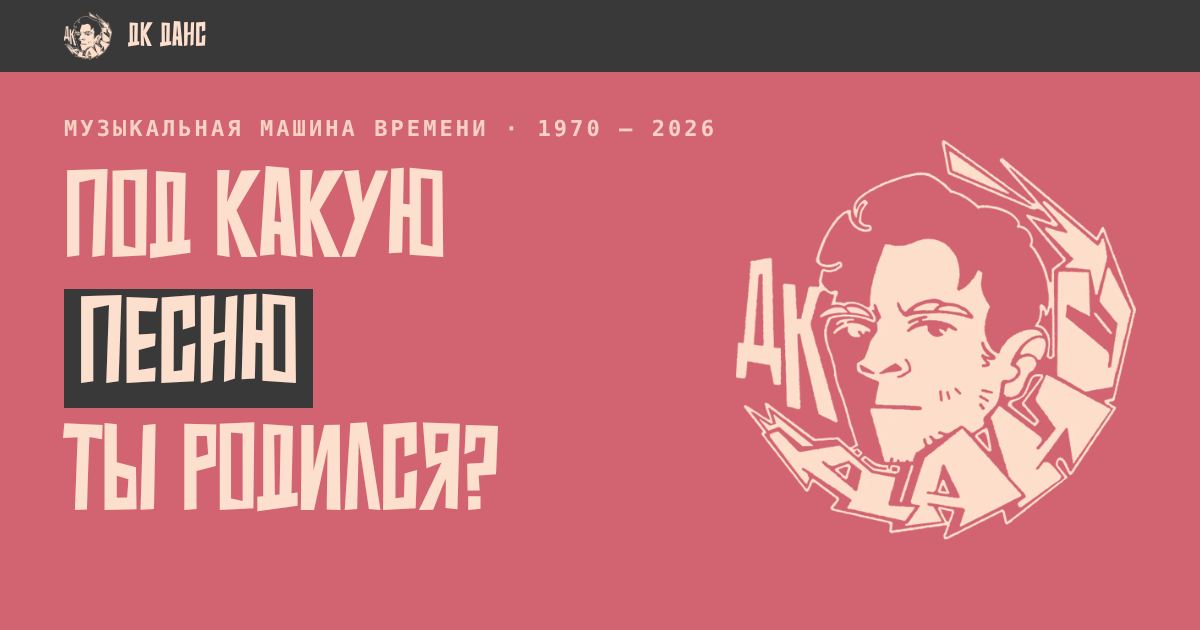
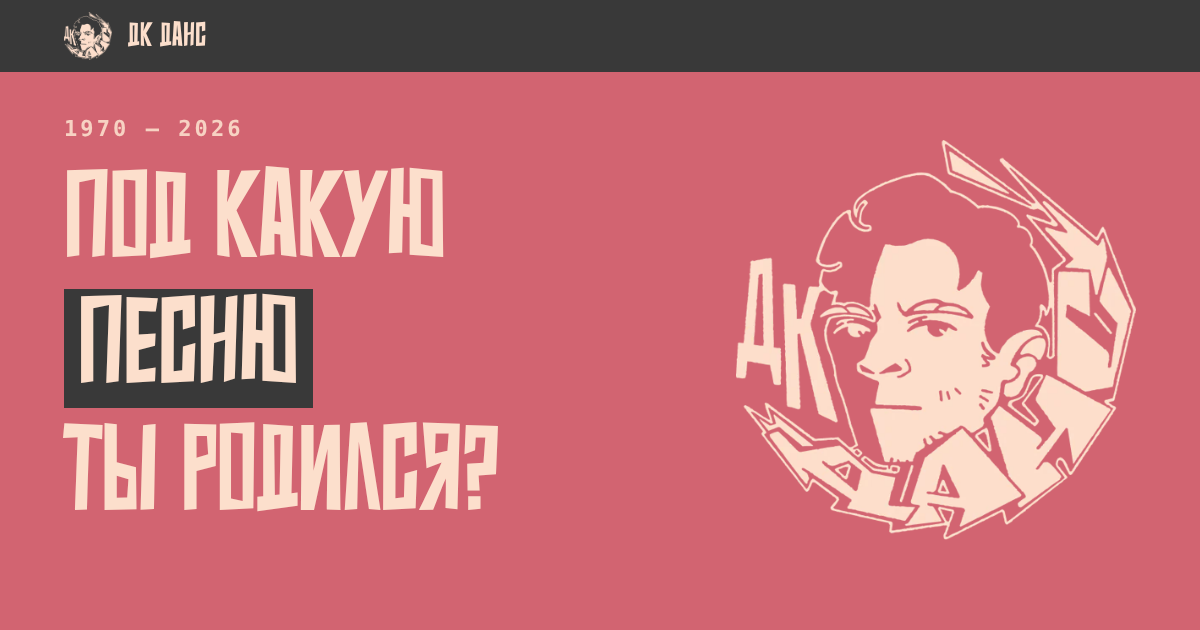
Site texts: editor's rewrite (hero, result card, life soundtrack, footer, link preview); remove corner stamp and multichart note
Claude-Session: https://claude.ai/code/session_0131Scg2gfX6z1jsNtzh2Lcg

Changed region(s): [[0.0308, 0.181, 0.4317, 0.2111], [0.4625, 0.181, 0.6167, 0.2111]]

diff --git a/app/birthday-app.tsx b/app/birthday-app.tsx
@@ -43,24 +43,6 @@ function detailLabel(hit: BirthdayHit) {
   return hit.precision;
 }
 
-function archiveStamp(hit: BirthdayHit) {
-  switch (hit.mode) {
-    case "стриминговый чарт": return `СЛУШАТЕЛЬСКИЕ ЧАРТЫ ${hit.year}`;
-    case "мультичарт": return "МУЛЬТИЧАРТ 2004—2025";
-    case "недельный чарт": return "НЕДЕЛЬНЫЙ ХИТ-ПАРАД";
-    case "исторический чарт": return "АРХИВ ЗД / МК";
-    case "архив года": return "АРХИВ ГОДА";
-    case "архивный эфир": return "ТВ-АРХИВ";
-    case "датированный релиз": return "КУЛЬТУРНЫЙ РЕЛИЗ";
-    case "месячный релиз": return "МЕСЯЧНАЯ ПУБЛИКАЦИЯ";
-    case "месячный чарт": return "МЕСЯЧНЫЙ ХИТ-ПАРАД";
-    case "телепремьера": return "ТЕЛЕПРЕМЬЕРА";
-    case "датированный фестиваль": return "ДАТИРОВАННЫЙ ФЕСТИВАЛЬ";
-    case "датированный концерт": return "КОНЦЕРТНЫЙ АРХИВ";
-    default: return "РАДИОАРХИВ";
-  }
-}
-
 export default function BirthdayApp({ initialHit, initialDate, initialToday, weekCount, monthlyCount, initialLife, maxDate }: { initialHit: BirthdayHit | null; initialDate: string; initialToday: string; weekCount: number; monthlyCount: number; initialLife: LifeEntry[]; maxDate?: string }) {
   const [date, setDate] = useState(initialDate);
   const [submittedDate, setSubmittedDate] = useState(initialDate);
@@ -121,7 +103,7 @@ export default function BirthdayApp({ initialHit, initialDate, initialToday, wee
       try { window.history.replaceState({}, "", `?date=${selectedDate}`); } catch { /* sandboxed preview */ }
       requestAnimationFrame(() => document.getElementById("result")?.scrollIntoView({ behavior: window.matchMedia("(prefers-reduced-motion: reduce)").matches ? "instant" : "smooth", block: "start" }));
     } catch {
-      if (activeRequest.current === controller) setError("Не удалось загрузить песню. Проверь соединение и попробуй ещё раз — предыдущий результат сохранён.");
+      if (activeRequest.current === controller) setError("Не удалось загрузить песню. Проверь интернет и попробуй ещё раз, предыдущий результат сохранён.");
     } finally {
       window.clearTimeout(timeout);
       if (activeRequest.current === controller) { setLoading(false); activeRequest.current = null; }
@@ -195,10 +177,10 @@ export default function BirthdayApp({ initialHit, initialDate, initialToday, wee
       </header>
 
       <section className="hero" id="top">
-        <p className="eyebrow">Музыкальная машина времени · <span className="nowrap">1970 — {today.slice(0, 4)}</span></p>
+        <p className="eyebrow">Саундтрек твоего дня рождения · <span className="nowrap">1970 — {today.slice(0, 4)}</span></p>
         <img className="hero-logo" src="brand/logo-cream.webp" alt="" aria-hidden="true" />
         <h1>Под какую <mark>песню</mark> ты&nbsp;родился?</h1>
-        <p className="lede">Выбери дату — найдём песню из хит-парадов и музыкальных архивов того времени и покажем, насколько точно удалось попасть в твой день.</p>
+        <p className="lede">Выбери дату и мы найдём песню, которая была на пике популярности и чартов в твой день рождения.</p>
 
         <form className="date-form" onSubmit={handleSubmit}>
           <label htmlFor="birthdate">Дата рождения</label>
@@ -222,7 +204,7 @@ export default function BirthdayApp({ initialHit, initialDate, initialToday, wee
       <section className="result-wrap" id="result" aria-live="polite" aria-busy={loading}>
         {hit ? (
           <article className="result-card is-entering" key={submittedDate}>
-            <div className="result-meta"><p>Твой саундтрек дня рождения</p><span>{formatDate(submittedDate)}</span></div>
+            <div className="result-meta"><p>Саундтрек твоего дня рождения</p><span>{formatDate(submittedDate)}</span></div>
             <div className="carrier-stage">
               <RecordObject title={hit.title} artist={hit.artist} year={hit.year} date={formatDate(submittedDate)} />
             </div>
@@ -241,7 +223,7 @@ export default function BirthdayApp({ initialHit, initialDate, initialToday, wee
                 </div>
                 <div className="actions-row">
                   <button className="btn-quiet" type="button" onClick={copyResult}>{copied ? "Ссылка скопирована ✓" : "Поделиться"}</button>
-                  <button className="btn-quiet btn-story" type="button" onClick={makeCard} disabled={cardBusy}>{cardBusy ? "Рисуем…" : "Карточка для сторис"}</button>
+                  <button className="btn-quiet btn-story" type="button" onClick={makeCard} disabled={cardBusy}>{cardBusy ? "Делаем карточку…" : "Карточка для сторис"}</button>
                 </div>
               </div>
               {copyFallback && <div className="copy-fallback"><p>Не удалось скопировать автоматически. Выдели текст:</p><textarea aria-label="Результат для копирования" rows={4} readOnly value={copyFallback} onFocus={(event) => event.target.select()} /></div>}
@@ -290,8 +272,8 @@ export default function BirthdayApp({ initialHit, initialDate, initialToday, wee
                     <div className="chart-note"><span>{hit.chartRank ? `#${hit.chartRank}` : "✓"}</span><p>{hit.chartMetric}<br /><b>{hit.period}</b></p></div>
                     <div className={`precision precision-${hit.precision.toLowerCase()}`}><span>{detailLabel(hit)}</span><p>{hit.proximity}</p></div>
                   </div>
-                  {popularity && <div className={`confidence confidence-${popularity.level}`}><p className="confidence-caption">ЧТО ИЗВЕСТНО О ПОПУЛЯРНОСТИ</p><strong>{popularity.level === "review" && !era ? "Подтверждено архивом" : popularity.label}</strong><p>{popularity.detail}</p></div>}
-                  <p>{hit.method}{/[.!?]$/.test(hit.method) ? "" : "."}{hit.mode === "мультичарт" ? " Радиостанции учитываются вместе как одна среда; недельный и годовой Shazam также не дублируют друг друга." : ""}</p>
+                  {popularity && <div className={`confidence confidence-${popularity.level}`}><p className="confidence-caption">ЧТО ИЗВЕСТНО О ПОПУЛЯРНОСТИ</p><strong>{popularity.level === "review" && !era ? "Подтверждено архивом" : popularity.label}</strong>{popularity.detail && <p>{popularity.detail}</p>}</div>}
+                  <p>{hit.method}{/[.!?]$/.test(hit.method) ? "" : "."}</p>
                   <p className="sources-caption">Источники ({hit.sources.length + 1})</p>
                   <div className="source-list">
                     {hit.sources.map((source) => (
@@ -306,7 +288,6 @@ export default function BirthdayApp({ initialHit, initialDate, initialToday, wee
                 </div>
               </details>
             </div>
-            <p className="demo-stamp">{archiveStamp(hit)}</p>
           </article>
         ) : (
           <article className="empty-card">
@@ -323,13 +304,13 @@ export default function BirthdayApp({ initialHit, initialDate, initialToday, wee
         <dl className="how-levels">
           <div><dt><span className="lvl lvl-week">Неделя</span></dt><dd>Песня стояла в хит-параде, вышедшем в пределах недели от твоей даты.</dd></div>
           <div><dt><span className="lvl lvl-month">Месяц</span></dt><dd>Источник того же месяца: чарт месяца, журнал, эфир или концерт.</dd></div>
-          <div><dt><span className="lvl lvl-year">Год</span></dt><dd>Точнее найти не удалось — песня из проверенного архива года.</dd></div>
+          <div><dt><span className="lvl lvl-year">Год</span></dt><dd>Точнее найти не удалось, просто песня из проверенного архива года.</dd></div>
         </dl>
-        <p className="how-note">Под каждой песней есть источники: можно открыть выпуск чарта или журнала и проверить самому. Радио, продажи, прослушивания и голосования читателей говорят о разном, и мы это не смешиваем.</p>
+        <p className="how-note">Под каждой песней есть источники: можно открыть выпуск чарта или журнала и проверить самому.</p>
         <p className="how-facts"><b>{weekCount.toLocaleString("ru-RU")}</b> недель чартов · <b>{monthlyCount}</b> месячных хит-парадов 1985–1991 · архив с 1970 года</p>
       </section>
 
-      <footer><p>Идея и редакция — ДК ДАНС</p><a href="#top">Ввести другую дату ↑</a></footer>
+      <footer><p>Сервис придумал ДК ДАНС</p><a href="#top">Ввести другую дату ↑</a></footer>
     </main>
   );
 }

diff --git a/app/evidence-policy.ts b/app/evidence-policy.ts
@@ -42,7 +42,7 @@ const NO_CHART_ERAS: readonly { from: string; to: string; label: string; detail:
   {
     from: "1982-03-01", to: "1985-08-31",
     label: "Хит-парадов в эти годы не публиковали",
-    detail: "С марта 1982 по август 1985 года общесоюзного песенного хит-парада не выходило: рубрику «Звуковая дорожка» «МК» закрыли после февраля 1982 года, а после опроса 1984 года разгромили. Чарт вернулся только с сентября 1985 года. Поэтому массовость песни измерить нечем. Песня подтверждена датированным источником своего месяца: журналом, эфиром, концертом или релизом.",
+    detail: "",
   },
 ];
 
@@ -56,7 +56,7 @@ export function assessPopularity(sources: readonly PilotSource[]) {
   const hasDatedChart = sources.some((source) => source.kind === "Shazam" || source.kind === "цифровые продажи" || source.kind === "радио" || source.kind === "датированный стриминговый чарт");
   if (count >= 2) return { label: "Датированный чарт и несколько площадок", detail: `${hasDatedChart ? "Позиция привязана к выпуску чарта; " : ""}популярность независимо подтверждают разные слушательские площадки. Годовые итоги не считаются доказательством пика в выбранный день.`, level: "supported" };
   if (count === 1) return { label: hasDatedChart ? "Датированный чарт и одна площадка" : "Есть слушательское подтверждение", detail: `${hasDatedChart ? "Позиция привязана к выпуску чарта; " : ""}масштаб популярности подтверждает одна слушательская площадка или опрос. Дополнительный независимый источник повысит уверенность.`, level: "partial" };
-  if (sources.some((source) => sourcePlatform(source) === "culture")) return { label: "Есть культурный резонанс", detail: "Сохранилось описание общественного отклика. Данные о массовом прослушивании ещё уточняются.", level: "partial" };
+  if (sources.some((source) => sourcePlatform(source) === "culture")) return { label: "Есть культурный резонанс", detail: "Сохранилось описание общественного отклика.", level: "partial" };
   return { label: "Популярность требует перепроверки", detail: "Источник подтверждает чарт, эфир, релиз или награду. Этого недостаточно, чтобы уверенно назвать песню массовым хитом.", level: "review" };
 }
 

diff --git a/static/index.html b/static/index.html
@@ -4,26 +4,26 @@
     <meta charset="utf-8" />
     <meta name="viewport" content="width=device-width, initial-scale=1" />
     <title>Саундтрек твоего рождения</title>
-    <meta name="description" content="Найди песню для своей даты рождения — с источниками, точностью времени и объяснением выбора." />
+    <meta name="description" content="Узнай, какая песня была популярна в твой день рождения." />
     <meta property="og:type" content="website" />
     <meta property="og:site_name" content="ДК ДАНС" />
     <meta property="og:locale" content="ru_RU" />
     <meta property="og:url" content="https://dkdanceblog.github.io/soundtrack/" />
     <meta property="og:title" content="Под какую песню ты родился?" />
-    <meta property="og:description" content="Музыкальная машина времени ДК ДАНС: песня из хит-парадов дня твоего рождения, с 1970 года до сегодня." />
+    <meta property="og:description" content="Узнать, какая песня хайпила в твой день рождения" />
     <meta property="og:image" content="https://dkdanceblog.github.io/soundtrack/og-image.png" />
     <meta property="og:image:width" content="1200" />
     <meta property="og:image:height" content="630" />
     <meta property="og:image:alt" content="Под какую песню ты родился? — ДК ДАНС" />
     <meta name="twitter:card" content="summary_large_image" />
     <meta name="twitter:title" content="Под какую песню ты родился?" />
-    <meta name="twitter:description" content="Музыкальная машина времени ДК ДАНС: песня из хит-парадов дня твоего рождения, с 1970 года до сегодня." />
+    <meta name="twitter:description" content="Узнать, какая песня хайпила в твой день рождения" />
     <meta name="twitter:image" content="https://dkdanceblog.github.io/soundtrack/og-image.png" />
     <meta name="theme-color" content="#393939" />
     <link rel="icon" href="favicon.svg" type="image/svg+xml" />
   </head>
   <body>
-    <div id="root"><p style="padding:40px;font:700 18px Arial,sans-serif">Загружаем музыкальную машину времени…</p></div>
+    <div id="root"><p style="padding:40px;font:700 18px Arial,sans-serif">Скоро узнаем песню твоего дня рождения...</p></div>
     <script type="module" src="./main.tsx"></script>
   </body>
 </html>

diff --git a/app/life-soundtrack.tsx b/app/life-soundtrack.tsx
@@ -134,7 +134,7 @@ export function LifeSoundtrack({ birth, initialEntries }: { birth: string; initi
           </div>
         </div>
       )}
-      <p className="life-note">Каждая песня подобрана так же, как основной результат: с той точностью, которую дают источники для этой даты. Подробности — если ввести нужную дату сверху.</p>
+      <p className="life-note">Каждая песня подобрана так же, как основной результат: с той точностью, которую дают источники для этой даты.</p>
     </section>
   );
 }

diff --git a/app/era-object.tsx b/app/era-object.tsx
@@ -8,7 +8,7 @@ export function RecordObject({ title, artist, year, date }: Props) {
     <div className="carrier" aria-hidden="true">
       <div className="lp-disc"><div className="lp-label"><img src="brand/ring-cream.webp" alt="" /></div></div>
       <div className="lp-sleeve">
-        <p className="lp-top"><span>ДК ДАНС</span><span>саундтрек рождения</span></p>
+        <p className="lp-top"><span>ДК ДАНС</span><span>саундтрек дня рождения</span></p>
         <p className="lp-date"><b>{day}.{month}</b><b>{year}</b></p>
         <div className="lp-ring" />
         <p className="lp-title">{title}</p>

diff --git a/app/layout.tsx b/app/layout.tsx
@@ -4,7 +4,7 @@ import "./globals.css";
 
 export const metadata: Metadata = {
   title: "Саундтрек твоего рождения",
-  description: "Найди песню для своей даты рождения — с источниками, точностью времени и объяснением выбора.",
+  description: "Узнай, какая песня была популярна в твой день рождения.",
 };
 
 export default function RootLayout({ children }: Readonly<{ children: React.ReactNode }>) {

diff --git a/static/main.tsx b/static/main.tsx
@@ -25,5 +25,5 @@ async function start() {
 }
 
 start().catch(() => {
-  document.getElementById("root")!.innerHTML = "<p style=\"padding:40px;font:700 18px Arial,sans-serif\">Не удалось загрузить данные. Обнови страницу.</p>";
+  document.getElementById("root")!.innerHTML = "<p style=\"padding:40px;font:700 18px Arial,sans-serif\">Чёт не то. Обнови страницу.</p>";
 });
